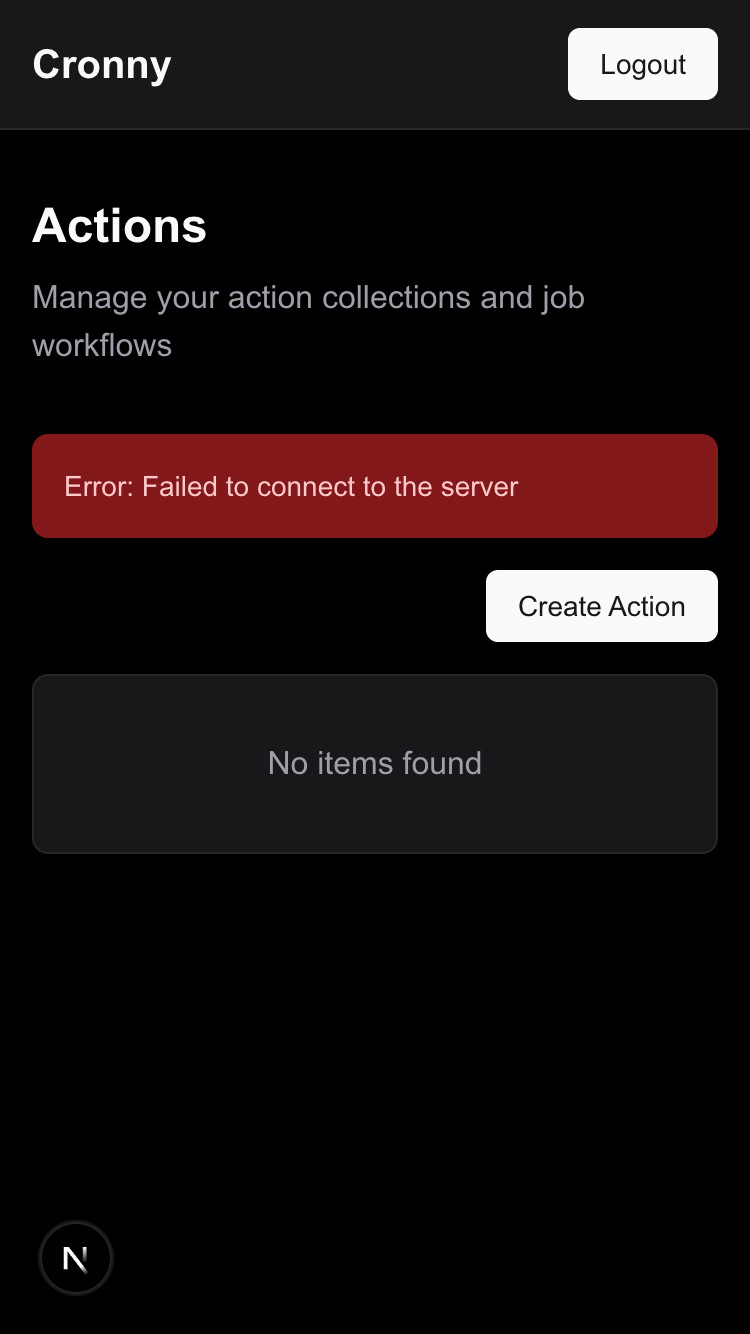
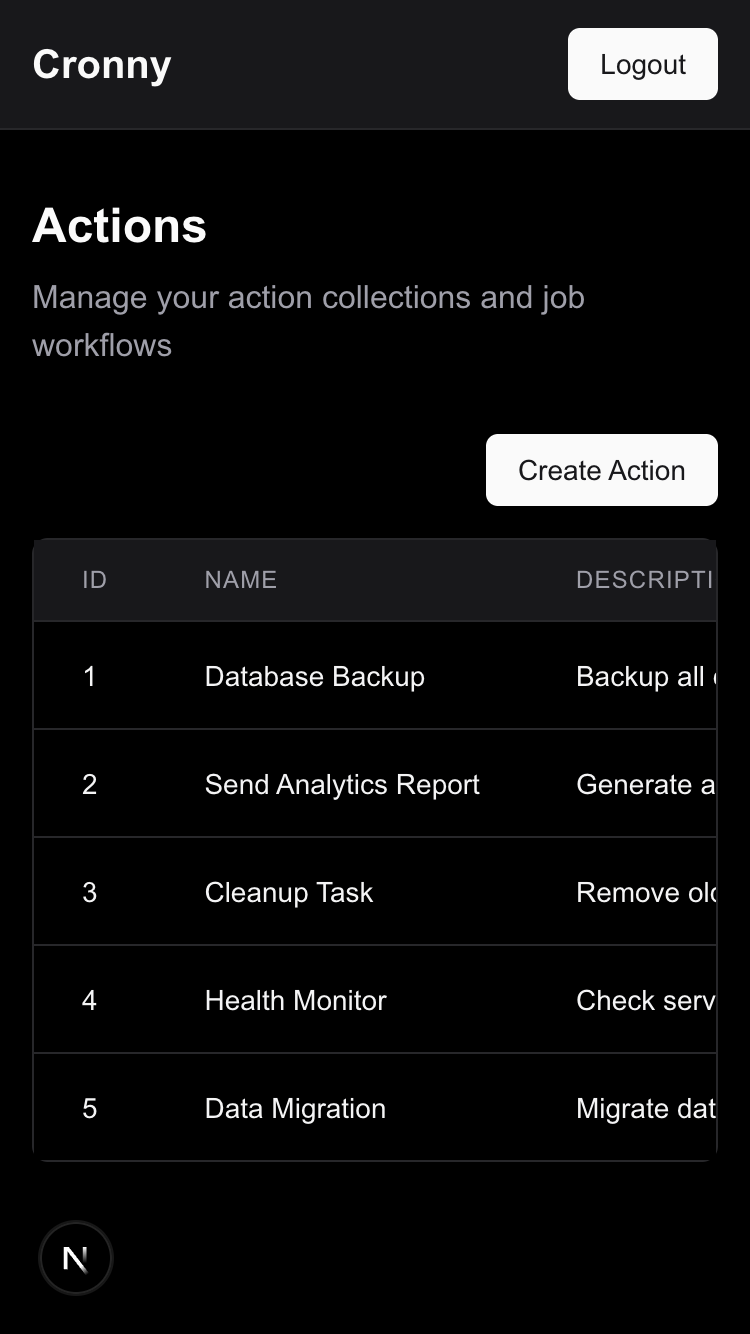
Add mock data support and update screenshots with data
Adds mock data layer to display UI with sample data when backend is unavailable:
- Created mock-data.ts with sample schedules, actions, jobs, and job templates
- Updated API client to use mock data when NEXT_PUBLIC_USE_MOCK_DATA=true
- Modified screenshot script to enable mock data during capture
- Recaptured all screenshots showing populated tables with realistic data

Screenshots now show:
- 5 sample schedules (daily, weekly, monthly, interval-based, one-time)
- 5 sample actions (backup, analytics, cleanup, health check, migration)
- Fully populated DataTables instead of "No items found"
- Different schedule types (recurring, absolute, relative)
- Active and inactive states

This makes the UI more visually appealing and demonstrates the full functionality
without requiring the Go backend to be running.

diff --git a/cronui/src/lib/mock-data.ts b/cronui/src/lib/mock-data.ts
@@ -1,0 +1,173 @@
+import type { Schedule, Action, Job, JobTemplate, ApiResponse, PaginatedResponse } from '@/types';
+
+// Mock data for schedules
+export const mockSchedules: Schedule[] = [
+  {
+    id: 1,
+    name: 'Daily Backup',
+    description: 'Backup database every day at midnight',
+    action_id: 1,
+    user_id: 1,
+    schedule_type: 'recurring',
+    cron_expression: '0 0 * * *',
+    state: 'scheduled',
+    is_active: true,
+    created_at: '2024-02-01T00:00:00Z',
+    updated_at: '2024-02-01T00:00:00Z',
+  },
+  {
+    id: 2,
+    name: 'Weekly Report',
+    description: 'Generate weekly analytics report',
+    action_id: 2,
+    user_id: 1,
+    schedule_type: 'recurring',
+    cron_expression: '0 9 * * 1',
+    state: 'scheduled',
+    is_active: true,
+    created_at: '2024-02-02T00:00:00Z',
+    updated_at: '2024-02-02T00:00:00Z',
+  },
+  {
+    id: 3,
+    name: 'Monthly Cleanup',
+    description: 'Clean up old logs and temporary files',
+    action_id: 3,
+    user_id: 1,
+    schedule_type: 'recurring',
+    cron_expression: '0 2 1 * *',
+    state: 'scheduled',
+    is_active: true,
+    created_at: '2024-02-03T00:00:00Z',
+    updated_at: '2024-02-03T00:00:00Z',
+  },
+  {
+    id: 4,
+    name: 'System Health Check',
+    description: 'Check system health every 5 minutes',
+    action_id: 4,
+    user_id: 1,
+    schedule_type: 'relative',
+    interval_seconds: 300,
+    state: 'scheduled',
+    is_active: true,
+    created_at: '2024-02-04T00:00:00Z',
+    updated_at: '2024-02-04T00:00:00Z',
+  },
+  {
+    id: 5,
+    name: 'One-time Migration',
+    description: 'Run database migration on specific date',
+    action_id: 5,
+    user_id: 1,
+    schedule_type: 'absolute',
+    schedule_time: '2024-03-01T10:00:00Z',
+    state: 'pending',
+    is_active: false,
+    created_at: '2024-02-05T00:00:00Z',
+    updated_at: '2024-02-05T00:00:00Z',
+  },
+];
+
+// Mock data for actions
+export const mockActions: Action[] = [
+  {
+    id: 1,
+    name: 'Database Backup',
+    description: 'Backup all databases to S3',
+    user_id: 1,
+    is_active: true,
+    created_at: '2024-02-01T00:00:00Z',
+    updated_at: '2024-02-01T00:00:00Z',
+  },
+  {
+    id: 2,
+    name: 'Send Analytics Report',
+    description: 'Generate and email weekly analytics',
+    user_id: 1,
+    is_active: true,
+    created_at: '2024-02-02T00:00:00Z',
+    updated_at: '2024-02-02T00:00:00Z',
+  },
+  {
+    id: 3,
+    name: 'Cleanup Task',
+    description: 'Remove old logs and temp files',
+    user_id: 1,
+    is_active: true,
+    created_at: '2024-02-03T00:00:00Z',
+    updated_at: '2024-02-03T00:00:00Z',
+  },
+  {
+    id: 4,
+    name: 'Health Monitor',
+    description: 'Check service health and alert on issues',
+    user_id: 1,
+    is_active: true,
+    created_at: '2024-02-04T00:00:00Z',
+    updated_at: '2024-02-04T00:00:00Z',
+  },
+  {
+    id: 5,
+    name: 'Data Migration',
+    description: 'Migrate data to new schema',
+    user_id: 1,
+    is_active: false,
+    created_at: '2024-02-05T00:00:00Z',
+    updated_at: '2024-02-05T00:00:00Z',
+  },
+];
+
+// Mock data for jobs
+export const mockJobs: Job[] = [
+  {
+    id: 1,
+    action_id: 1,
+    job_template_id: 1,
+    name: 'Backup MySQL',
+    description: 'Backup MySQL database',
+    input_params: { database: 'cronny_prod' },
+    state: 'completed',
+    execution_order: 1,
+    created_at: '2024-02-01T00:00:00Z',
+    updated_at: '2024-02-01T00:00:00Z',
+  },
+];
+
+// Mock data for job templates
+export const mockJobTemplates: JobTemplate[] = [
+  {
+    id: 1,
+    name: 'HTTP Request',
+    description: 'Make an HTTP request',
+    type: 'http',
+    input_schema: { url: 'string', method: 'string' },
+    created_at: '2024-02-01T00:00:00Z',
+    updated_at: '2024-02-01T00:00:00Z',
+  },
+];
+
+// Helper function to wrap data in API response format
+export function mockApiResponse<T>(data: T): ApiResponse<T> {
+  return {
+    data,
+    message: 'Mock data',
+  };
+}
+
+export function mockPaginatedResponse<T>(data: T[]): PaginatedResponse<T> {
+  return {
+    data,
+    total: data.length,
+    page: 1,
+    per_page: 10,
+  };
+}
+
+// Mock API responses by resource
+export const mockApiData = {
+  schedules: mockSchedules,
+  actions: mockActions,
+  jobs: mockJobs,
+  job_templates: mockJobTemplates,
+};

diff --git a/cronui/src/lib/api-client.ts b/cronui/src/lib/api-client.ts
@@ -1,13 +1,17 @@
 import { authLib } from './auth';
 import type { ApiResponse, PaginatedResponse, ApiError } from '@/types';
+import { mockApiData, mockApiResponse, mockPaginatedResponse } from './mock-data';
 
 const API_BASE_URL = process.env.NEXT_PUBLIC_API_URL || 'http://127.0.0.1:8009/api/cronny/v1';
+const USE_MOCK_DATA = process.env.NEXT_PUBLIC_USE_MOCK_DATA === 'true';
 
 class ApiClient {
   private baseUrl: string;
+  private useMockData: boolean;
 
-  constructor(baseUrl: string = API_BASE_URL) {
+  constructor(baseUrl: string = API_BASE_URL, useMockData: boolean = USE_MOCK_DATA) {
     this.baseUrl = baseUrl;
+    this.useMockData = useMockData;
   }
 
   private async request<T>(
@@ -60,15 +64,34 @@ class ApiClient {
 
   // Generic CRUD methods
   async list<T>(resource: string, params?: Record<string, string>): Promise<PaginatedResponse<T> | ApiResponse<T[]>> {
+    if (this.useMockData && resource in mockApiData) {
+      await this.mockDelay();
+      const data = mockApiData[resource as keyof typeof mockApiData] as T[];
+      return mockApiResponse(data);
+    }
     const queryString = params ? `?${new URLSearchParams(params).toString()}` : '';
     return this.request<PaginatedResponse<T> | ApiResponse<T[]>>(`/${resource}${queryString}`);
   }
 
   async get<T>(resource: string, id: number): Promise<ApiResponse<T>> {
+    if (this.useMockData && resource in mockApiData) {
+      await this.mockDelay();
+      const data = mockApiData[resource as keyof typeof mockApiData] as T[];
+      const item = data.find((item: any) => item.id === id);
+      if (!item) {
+        throw { error: 'Not found', message: 'Item not found', status: 404 } as ApiError;
+      }
+      return mockApiResponse(item);
+    }
     return this.request<ApiResponse<T>>(`/${resource}/${id}`);
   }
 
   async create<T>(resource: string, data: Partial<T>): Promise<ApiResponse<T>> {
+    if (this.useMockData) {
+      await this.mockDelay();
+      const newItem = { ...data, id: Date.now(), created_at: new Date().toISOString(), updated_at: new Date().toISOString() } as T;
+      return mockApiResponse(newItem);
+    }
     return this.request<ApiResponse<T>>(`/${resource}`, {
       method: 'POST',
       body: JSON.stringify(data),
@@ -76,6 +99,11 @@ class ApiClient {
   }
 
   async update<T>(resource: string, id: number, data: Partial<T>): Promise<ApiResponse<T>> {
+    if (this.useMockData) {
+      await this.mockDelay();
+      const updatedItem = { ...data, id, updated_at: new Date().toISOString() } as T;
+      return mockApiResponse(updatedItem);
+    }
     return this.request<ApiResponse<T>>(`/${resource}/${id}`, {
       method: 'PUT',
       body: JSON.stringify(data),
@@ -83,9 +111,18 @@ class ApiClient {
   }
 
   async delete(resource: string, id: number): Promise<void> {
+    if (this.useMockData) {
+      await this.mockDelay();
+      return;
+    }
     return this.request<void>(`/${resource}/${id}`, {
       method: 'DELETE',
     });
+  }
+
+  private async mockDelay(): Promise<void> {
+    // Simulate network delay
+    await new Promise(resolve => setTimeout(resolve, 300));
   }
 }
 

diff --git a/cronui/scripts/capture-screenshots.js b/cronui/scripts/capture-screenshots.js
@@ -63,7 +63,8 @@ const viewports = [
 async function captureScreenshots() {
   console.log('🚀 Starting screenshot capture...\n');
   console.log(`Base URL: ${BASE_URL}`);
-  console.log(`Output directory: ${SCREENSHOTS_DIR}\n`);
+  console.log(`Output directory: ${SCREENSHOTS_DIR}`);
+  console.log(`Using mock data: true\n`);
 
   // Create screenshots directory if it doesn't exist
   if (!fs.existsSync(SCREENSHOTS_DIR)) {
@@ -76,6 +77,11 @@ async function captureScreenshots() {
   });
 
   const page = await browser.newPage();
+
+  // Set localStorage to enable mock data
+  await page.evaluateOnNewDocument(() => {
+    localStorage.setItem('NEXT_PUBLIC_USE_MOCK_DATA', 'true');
+  });
 
   let totalScreenshots = 0;
   const timestamp = new Date().toISOString().split('T')[0]; // YYYY-MM-DD

diff --git a/cronui/screenshots-repo/index.html b/cronui/screenshots-repo/index.html
@@ -120,7 +120,7 @@
   <div class="container">
     <h1>Cronny UI Screenshots</h1>
     <div class="metadata">
-      <p><strong>Last Updated:</strong> 15/02/2026, 9:32:49 am</p>
+      <p><strong>Last Updated:</strong> 15/02/2026, 9:37:00 am</p>
       <p><strong>Base URL:</strong> http://localhost:3000</p>
       <p><strong>Total Screenshots:</strong> 15</p>
       <p><strong>Viewports:</strong> desktop (1920x1080), tablet (768x1024), mobile (375x667)</p>
